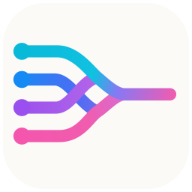
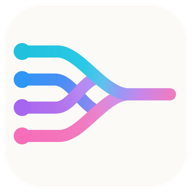
feat: refresh GatherThread branding assets

diff --git a/apps/web/index.html b/apps/web/index.html
@@ -3,7 +3,7 @@
   <head>
     <meta charset="UTF-8" />
     <meta name="viewport" content="width=device-width, initial-scale=1.0" />
-    <meta name="theme-color" content="#f4f1e8" />
+    <meta name="theme-color" content="#FBFAF7" />
     <link rel="icon" href="./favicon.ico" sizes="any" />
     <link rel="icon" type="image/png" sizes="32x32" href="./favicon-32x32.png" />
     <link rel="icon" type="image/png" sizes="16x16" href="./favicon-16x16.png" />
@@ -14,52 +14,35 @@
       content="GatherThread, a lightweight multi-harness collaboration client."
     />
     <title>GatherThread</title>
-    <link rel="stylesheet" href="./src/styles.css?v=20260829-22" />
+    <link rel="stylesheet" href="./src/styles.css?v=20260830-1" />
   </head>
   <body>
     <canvas id="ambient-canvas" class="ambient-canvas" aria-hidden="true" hidden></canvas>
-    <svg class="brand-symbols" aria-hidden="true">
-      <defs>
-        <linearGradient id="brand-cyan" x1="20" y1="40" x2="560" y2="186" gradientUnits="userSpaceOnUse"><stop stop-color="#08B9D8"/><stop offset=".50" stop-color="#10C1E1"/><stop offset=".66" stop-color="#8878F4"/><stop offset="1" stop-color="#F35BAE"/></linearGradient>
-        <linearGradient id="brand-blue" x1="20" y1="135" x2="420" y2="186" gradientUnits="userSpaceOnUse"><stop stop-color="#168AF4"/><stop offset=".55" stop-color="#4E6CF4"/><stop offset="1" stop-color="#A06BE8"/></linearGradient>
-        <linearGradient id="brand-violet" x1="20" y1="228" x2="420" y2="186" gradientUnits="userSpaceOnUse"><stop stop-color="#9A50EE"/><stop offset=".58" stop-color="#AD61EA"/><stop offset="1" stop-color="#C66BDD"/></linearGradient>
-        <linearGradient id="brand-pink" x1="20" y1="322" x2="420" y2="186" gradientUnits="userSpaceOnUse"><stop stop-color="#F456AE"/><stop offset=".58" stop-color="#F15CAE"/><stop offset="1" stop-color="#D56FD5"/></linearGradient>
-        <symbol id="brand-mark-symbol" viewBox="0 0 590 364">
-          <g fill="none" stroke-width="40" stroke-linecap="round" stroke-linejoin="round">
-            <path d="M50 135 H158 C207 135 245 220 300 241 C328 222 360 184 390 184 H540" stroke="url(#brand-blue)"/>
-            <path d="M50 228 H162 C213 228 248 136 300 129 C325 150 360 184 390 184 H540" stroke="url(#brand-violet)"/>
-            <path d="M50 322 H174 C243 322 272 260 300 241 C328 222 360 184 390 184 H540" stroke="url(#brand-pink)"/>
-            <path d="M50 42 H167 C229 42 275 108 300 129 C325 150 360 184 390 184 H540" stroke="url(#brand-cyan)"/>
-          </g>
-          <circle cx="50" cy="42" r="28" fill="#08B9D8"/><circle cx="50" cy="135" r="28" fill="#168AF4"/><circle cx="50" cy="228" r="28" fill="#9A50EE"/><circle cx="50" cy="322" r="28" fill="#F456AE"/>
-        </symbol>
-      </defs>
-    </svg>
     <a class="skip-link" href="#main-content">Skip to conversation</a>
 
     <main id="auth-view" class="auth-shell" aria-labelledby="login-title">
       <section class="auth-story" aria-hidden="true">
         <svg class="auth-mark-motion" viewBox="0 0 590 380" aria-hidden="true">
           <defs>
-            <linearGradient id="auth-mark-cyan" x1="20" y1="40" x2="560" y2="186" gradientUnits="userSpaceOnUse"><stop stop-color="#08B9D8"/><stop offset=".50" stop-color="#10C1E1"/><stop offset=".66" stop-color="#8878F4"/><stop offset="1" stop-color="#F35BAE"/></linearGradient>
-            <linearGradient id="auth-mark-blue" x1="20" y1="135" x2="420" y2="186" gradientUnits="userSpaceOnUse"><stop stop-color="#168AF4"/><stop offset=".55" stop-color="#4E6CF4"/><stop offset="1" stop-color="#A06BE8"/></linearGradient>
-            <linearGradient id="auth-mark-violet" x1="20" y1="228" x2="420" y2="186" gradientUnits="userSpaceOnUse"><stop stop-color="#9A50EE"/><stop offset=".58" stop-color="#AD61EA"/><stop offset="1" stop-color="#C66BDD"/></linearGradient>
-            <linearGradient id="auth-mark-pink" x1="20" y1="322" x2="420" y2="186" gradientUnits="userSpaceOnUse"><stop stop-color="#F456AE"/><stop offset=".58" stop-color="#F15CAE"/><stop offset="1" stop-color="#D56FD5"/></linearGradient>
+            <linearGradient id="auth-mark-cyan" x1="20" y1="40" x2="560" y2="186" gradientUnits="userSpaceOnUse"><stop stop-color="#20C1DC"/><stop offset=".43" stop-color="#2AC9E5"/><stop offset=".57" stop-color="#60C0EC"/><stop offset=".68" stop-color="#9A96F5"/><stop offset=".80" stop-color="#C986E9"/><stop offset="1" stop-color="#F47BBC"/></linearGradient>
+            <linearGradient id="auth-mark-blue" x1="20" y1="135" x2="330" y2="241" gradientUnits="userSpaceOnUse"><stop stop-color="#2E96F5"/><stop offset=".48" stop-color="#4A8EF6"/><stop offset=".72" stop-color="#7689F3"/><stop offset="1" stop-color="#A789F0"/></linearGradient>
+            <linearGradient id="auth-mark-violet" x1="20" y1="228" x2="330" y2="129" gradientUnits="userSpaceOnUse"><stop stop-color="#A766F0"/><stop offset=".46" stop-color="#B273ED"/><stop offset=".72" stop-color="#B789F2"/><stop offset="1" stop-color="#A39CF8"/></linearGradient>
+            <linearGradient id="auth-mark-pink" x1="20" y1="322" x2="420" y2="186" gradientUnits="userSpaceOnUse"><stop stop-color="#F66DB9"/><stop offset=".48" stop-color="#F378BD"/><stop offset=".68" stop-color="#EA82CB"/><stop offset=".84" stop-color="#D28FE5"/><stop offset="1" stop-color="#BB99F1"/></linearGradient>
           </defs>
-          <g class="auth-mark-base" fill="none" stroke-width="40" stroke-linecap="round" stroke-linejoin="round">
-            <path d="M50 135 H158 C207 135 245 220 300 241 C328 222 360 184 390 184 H540" stroke="url(#auth-mark-blue)"/>
-            <path d="M50 228 H162 C213 228 248 136 300 129 C325 150 360 184 390 184 H540" stroke="url(#auth-mark-violet)"/>
-            <path d="M50 322 H174 C243 322 272 260 300 241 C328 222 360 184 390 184 H540" stroke="url(#auth-mark-pink)"/>
-            <path d="M50 42 H167 C229 42 275 108 300 129 C325 150 360 184 390 184 H540" stroke="url(#auth-mark-cyan)"/>
+          <g class="auth-mark-base" fill="none" stroke-width="40" stroke-linejoin="round">
+            <path d="M50 135 H158 C210 135 245 215 298 240" stroke="url(#auth-mark-blue)" stroke-linecap="butt"/>
+            <path d="M50 228 H162 C214 228 247 143 298 130" stroke="url(#auth-mark-violet)" stroke-linecap="butt"/>
+            <path d="M50 322 H174 C248 322 322 184 404 184 H540" stroke="url(#auth-mark-pink)" stroke-linecap="round"/>
+            <path d="M50 42 H167 C241 42 320 184 404 184 H540" stroke="url(#auth-mark-cyan)" stroke-linecap="round"/>
           </g>
-          <g class="auth-mark-flow" fill="none" stroke-width="40" stroke-linecap="round" stroke-linejoin="round">
-            <path pathLength="1" d="M50 135 H158 C207 135 245 220 300 241 C328 222 360 184 390 184 H540" stroke="url(#auth-mark-blue)"/>
-            <path pathLength="1" d="M50 228 H162 C213 228 248 136 300 129 C325 150 360 184 390 184 H540" stroke="url(#auth-mark-violet)"/>
-            <path pathLength="1" d="M50 322 H174 C243 322 272 260 300 241 C328 222 360 184 390 184 H540" stroke="url(#auth-mark-pink)"/>
-            <path pathLength="1" d="M50 42 H167 C229 42 275 108 300 129 C325 150 360 184 390 184 H540" stroke="url(#auth-mark-cyan)"/>
+          <g class="auth-mark-flow" fill="none" stroke-width="40" stroke-linejoin="round">
+            <path pathLength="1" d="M50 135 H158 C210 135 245 215 298 240" stroke="url(#auth-mark-blue)" stroke-linecap="butt"/>
+            <path pathLength="1" d="M50 228 H162 C214 228 247 143 298 130" stroke="url(#auth-mark-violet)" stroke-linecap="butt"/>
+            <path pathLength="1" d="M50 322 H174 C248 322 322 184 404 184 H540" stroke="url(#auth-mark-pink)" stroke-linecap="round"/>
+            <path pathLength="1" d="M50 42 H167 C241 42 320 184 404 184 H540" stroke="url(#auth-mark-cyan)" stroke-linecap="round"/>
           </g>
           <g class="auth-mark-inputs">
-            <circle cx="50" cy="42" r="28" fill="#08B9D8"/><circle cx="50" cy="135" r="28" fill="#168AF4"/><circle cx="50" cy="228" r="28" fill="#9A50EE"/><circle cx="50" cy="322" r="28" fill="#F456AE"/>
+            <circle cx="50" cy="42" r="28" fill="#20C1DC"/><circle cx="50" cy="135" r="28" fill="#2E96F5"/><circle cx="50" cy="228" r="28" fill="#A766F0"/><circle cx="50" cy="322" r="28" fill="#F66DB9"/>
           </g>
         </svg>
         <p class="eyebrow">Human + agent workspace</p>
@@ -78,8 +61,8 @@
 
       <section class="login-panel">
         <div class="brand-lockup brand-lockup-login" role="img" aria-label="GatherThread">
-          <svg class="brand-lockup-mark" viewBox="0 0 590 364" aria-hidden="true"><use href="#brand-mark-symbol"></use></svg>
-          <span class="brand-lockup-name">GatherThread</span>
+          <img class="brand-lockup-image brand-lockup-image-light" src="./brand/lockup-color-transparent-light.svg" alt="" />
+          <img class="brand-lockup-image brand-lockup-image-dark" src="./brand/lockup-color-transparent-dark.svg" alt="" />
         </div>
         <h2 id="login-title">Enter your workspace</h2>
         <p class="muted">Your identity and permissions come from the server.</p>
@@ -132,8 +115,8 @@
     <div id="workspace" class="workspace" hidden>
       <header class="topbar">
         <a class="wordmark" href="#" aria-label="GatherThread home">
-          <svg class="brand-lockup-mark" viewBox="0 0 590 364" aria-hidden="true"><use href="#brand-mark-symbol"></use></svg>
-          <span class="brand-lockup-name">GatherThread</span>
+          <img class="brand-lockup-image brand-lockup-image-light" src="./brand/lockup-color-transparent-light.svg" alt="" />
+          <img class="brand-lockup-image brand-lockup-image-dark" src="./brand/lockup-color-transparent-dark.svg" alt="" />
         </a>
         <div class="account-cluster">
           <div class="connection-chip" id="global-connection" role="status">

diff --git a/apps/web/test/static-accessibility.test.js b/apps/web/test/static-accessibility.test.js
@@ -1,5 +1,6 @@
 import test from "node:test";
 import assert from "node:assert/strict";
+import { createHash } from "node:crypto";
 import { readFile } from "node:fs/promises";
 import { fileURLToPath } from "node:url";
 
@@ -10,6 +11,17 @@ const stylesPath = fileURLToPath(new URL("../src/styles.css", import.meta.url));
 const domainPath = fileURLToPath(new URL("../src/domain.js", import.meta.url));
 const i18nPath = fileURLToPath(new URL("../src/i18n.js", import.meta.url));
 const manifestPath = fileURLToPath(new URL("../site.webmanifest", import.meta.url));
+const brandLightPath = fileURLToPath(new URL("../brand/lockup-color-transparent-light.svg", import.meta.url));
+const brandDarkPath = fileURLToPath(new URL("../brand/lockup-color-transparent-dark.svg", import.meta.url));
+
+const brandedIconHashes = new Map([
[6 lines of base64/hex data omitted]
+]);
 
 test("site icons retain GatherThread identity without forcing standalone launch behavior", async () => {
   const [html, manifestText] = await Promise.all([
@@ -28,13 +40,17 @@ test("site icons retain GatherThread identity without forcing standalone launch 
   const manifest = JSON.parse(manifestText);
   assert.equal(manifest.name, "GatherThread");
   assert.equal(manifest.short_name, "GatherThread");
-  assert.equal(manifest.theme_color, "#f4f1e8");
-  assert.equal(manifest.background_color, "#f4f1e8");
+  assert.equal(manifest.theme_color, "#FBFAF7");
+  assert.equal(manifest.background_color, "#FBFAF7");
   assert.equal(Object.hasOwn(manifest, "display"), false);
   assert.deepEqual(manifest.icons.map((icon) => icon.src), [
     "./android-chrome-192x192.png",
     "./android-chrome-512x512.png",
   ]);
+  for (const [file, expectedHash] of brandedIconHashes) {
+    const icon = await readFile(new URL(`../${file}`, import.meta.url));
+    assert.equal(createHash("sha256").update(icon).digest("hex"), expectedHash, `${file} must use the approved app icon`);
+  }
 });
 
 test("the shell exposes landmarks, labelled forms, status regions, and separate send controls", async () => {
@@ -98,9 +114,17 @@ test("the shell exposes landmarks, labelled forms, status regions, and separate 
   }
   assert.match(html, /value="pronounced">Pronounced</);
   assert.doesNotMatch(html, /Subtle · recommended/);
-  assert.match(html, /id="brand-mark-symbol"/);
-  assert.equal((html.match(/class="brand-lockup-mark"/g) ?? []).length, 2);
-  assert.equal((html.match(/class="brand-lockup-name">GatherThread</g) ?? []).length, 2);
+  assert.equal((html.match(/brand\/lockup-color-transparent-light\.svg/g) ?? []).length, 2);
+  assert.equal((html.match(/brand\/lockup-color-transparent-dark\.svg/g) ?? []).length, 2);
+  assert.match(html, /M50 135 H158 C210 135 245 215 298 240/);
+  assert.match(html, /M50 228 H162 C214 228 247 143 298 130/);
+  assert.match(html, /M50 322 H174 C248 322 322 184 404 184 H540/);
+  assert.match(html, /M50 42 H167 C241 42 320 184 404 184 H540/);
+  for (const color of ["#20C1DC", "#2E96F5", "#A766F0", "#F66DB9"]) {
+    assert.match(html, new RegExp(color));
+  }
+  assert.doesNotMatch(html, /#08B9D8|#168AF4|#9A50EE|#F456AE/);
+  assert.doesNotMatch(html, /M50 135 H158 C207 135 245 220 300 241/);
   assert.doesNotMatch(html, /class="brand-mark(?: brand-mark-small)?"/);
   assert.match(main, /title\.title = session\.name/);
   assert.match(main, /element\("session-title"\)\.title = session\.name/);
@@ -115,6 +139,22 @@ test("the shell exposes landmarks, labelled forms, status regions, and separate 
   assert.match(main, /details\.open = live/);
   assert.match(main, /expandedWorklogs\.has\(worklogId\)/);
   assert.match(main, /details\.addEventListener\("toggle"/);
+});
+
+test("official light and dark lockups include the approved mark and outlined wordmark", async () => {
+  const [light, dark] = await Promise.all([
+    readFile(brandLightPath, "utf8"),
+    readFile(brandDarkPath, "utf8"),
+  ]);
+  for (const asset of [light, dark]) {
+    assert.match(asset, /viewBox="0 0 890 145"/);
+    assert.match(asset, /M50 135 H158 C210 135 245 215 298 240/);
+    assert.match(asset, /M50 42 H167 C241 42 320 184 404 184 H540/);
+    assert.match(asset, /#20C1DC/);
+    assert.match(asset, /#F66DB9/);
+  }
+  assert.match(light, /color="#111318"/);
+  assert.match(dark, /color="#FFFFFF"/);
 });
 
 test("project Codex connector explains scope, credential prompting, hook trust, and focus restoration", async () => {

diff --git a/apps/web/src/styles.css b/apps/web/src/styles.css
@@ -422,43 +422,44 @@ textarea:focus-visible,
   overflow: hidden;
 }
 
-.brand-symbols {
-  position: absolute;
-  width: 0;
-  height: 0;
-  overflow: hidden;
-  pointer-events: none;
-}
-
 .brand-lockup,
 .wordmark {
   display: inline-flex;
   align-items: center;
   width: fit-content;
-  color: var(--ink);
-}
-
-.brand-lockup {
-  gap: 12px;
 }
 
 .brand-lockup-login {
   margin-bottom: clamp(18px, 3vh, 34px);
 }
 
-.brand-lockup-mark {
+.brand-lockup-image {
   display: block;
-  width: 58px;
-  height: 36px;
+  width: 184px;
+  height: auto;
   flex: 0 0 auto;
-  overflow: visible;
 }
 
-.brand-lockup-name {
-  font-size: 1.12rem;
-  font-weight: 560;
-  letter-spacing: -0.035em;
-  line-height: 1;
+.brand-lockup-image-dark {
+  display: none;
+}
+
+:root[data-theme="dark"] .brand-lockup-image-light {
+  display: none;
+}
+
+:root[data-theme="dark"] .brand-lockup-image-dark {
+  display: block;
+}
+
+@media (prefers-color-scheme: dark) {
+  :root[data-theme="system"] .brand-lockup-image-light {
+    display: none;
+  }
+
+  :root[data-theme="system"] .brand-lockup-image-dark {
+    display: block;
+  }
 }
 
 .login-panel h2 {
@@ -733,18 +734,11 @@ code {
 }
 
 .wordmark {
-  gap: 9px;
   text-decoration: none;
 }
 
-.wordmark .brand-lockup-mark {
-  width: 46px;
-  height: 29px;
-}
-
-.wordmark .brand-lockup-name {
-  font-size: 1rem;
-  font-weight: 580;
+.wordmark .brand-lockup-image {
+  width: 150px;
 }
 
 .account-cluster {
